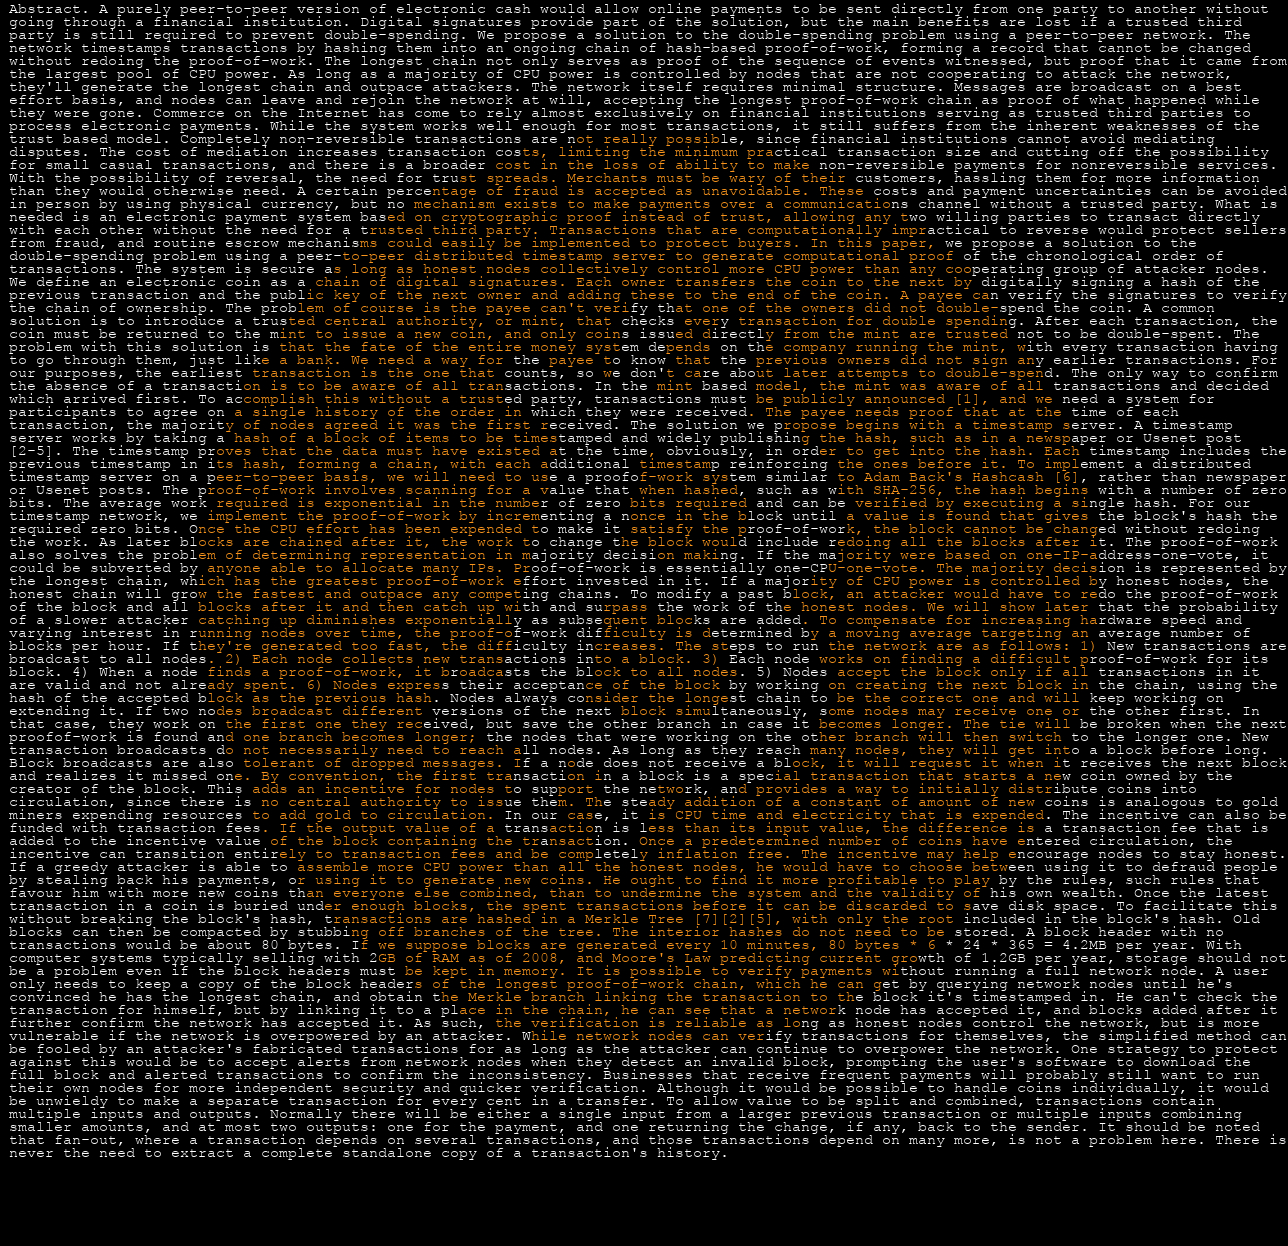
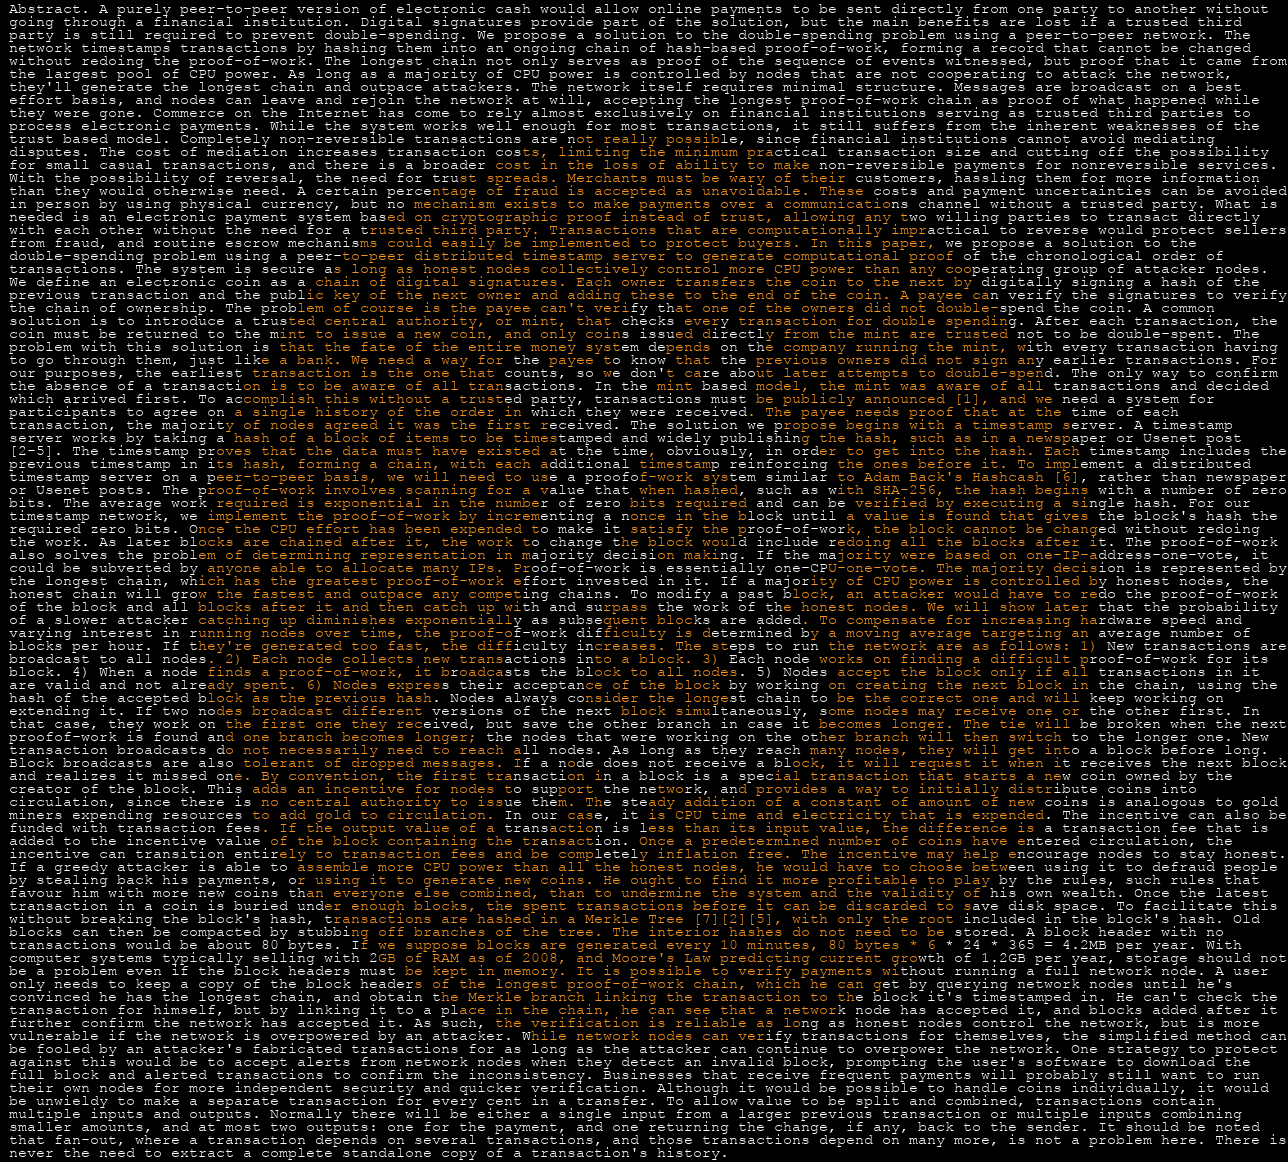
working, image is correct dimentions

diff --git a/tools.py b/tools.py
@@ -122,11 +122,11 @@ def calc_img_dims(lines, font):
 
 #     max_width_line = max(lines, key=lambda s: font.getsize(s)[0])
     # max height is adjusted down because it's too large visually for spacing
-    test_string = 'ABCDEFGHIJKLMNOPQRSTUVWXYZ'
+    test_string = 'a' #if I use this string instead, it adds like 10 blank lines to end of pic, no clue why:  'ABCDEFGHIJKLMNOPQRSTUVWXYZ'
     max_height = (font.getsize(test_string)[1])
         
 #     max_width = pt2px(font.getsize(max_width_line)[0])#just uncommented!!!!!!!!!!!!!!!!!!!!!!!!!!!!!!!!!!!!!!!!!!!!!
-    height = ( max_height * len(lines) ) + 0  # perfect or a little over sized
+    height = ( max_height * len(lines) ) + 5  # perfect or a little over sized
 #     print('height: ', height) #``````````````````````````````````````````````````````````````````````````````````````````````````````````````````````````
     
     width  = int(round(max_line_width + 1 + 0))  # a little over sized , needs to be exactly this # or cuts off text

diff --git a/build_image.py b/build_image.py
@@ -116,7 +116,10 @@ def build_final_image(kwargs):
     #make list of lines to be output in final image
     print('creating text lines...')
     lines = tools.make_correct_lines(ideal_dimentions['num_lines'], ideal_dimentions['line_length'], word_list)
-#     print("number of lines:", len(lines))
+    print('lines: ' , lines)#````````````````````````````````````````````````````````````````````````````````````````````````````````````````
+    print("number of lines:", len(lines))#````````````````````````````````````````````````````````````````````````````````````````````````````````
+    tools.write_text_file('TEST_LINES_TXT.txt', lines)#```````````````````````````````````````````````````````````````````````````````````````````
+    
     
     print('building unknown char list, MAKE SEPERATE BUTTON FO THIS STUFF!!!!!!!!!!!!!!!!!!!!!!!!!!!!!!!!! ') #`````````````````````````````````````
     unknown_char_list = font_tools.build_unknown_char_list(lines, kwargs['font_path'])
